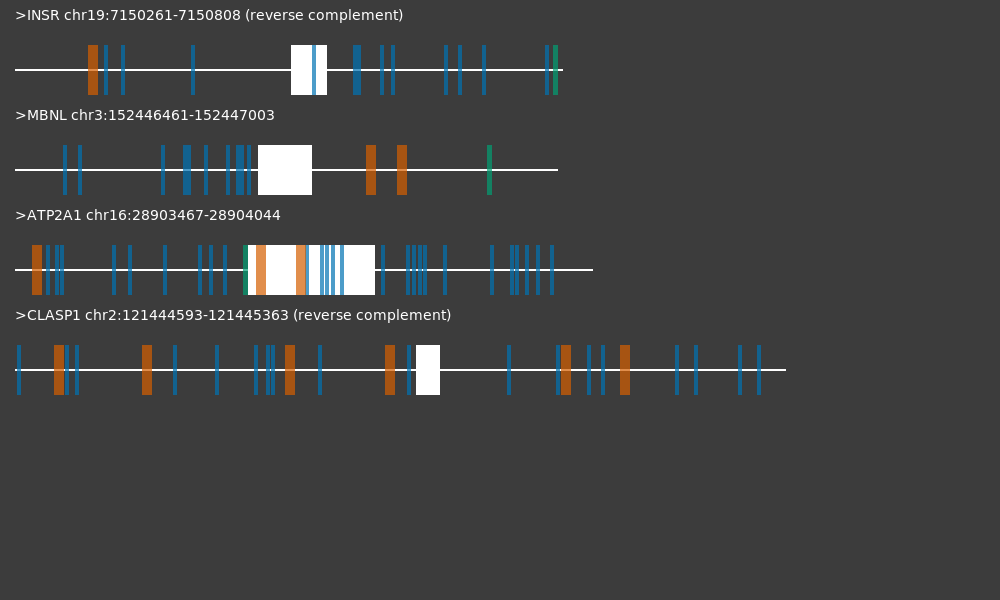
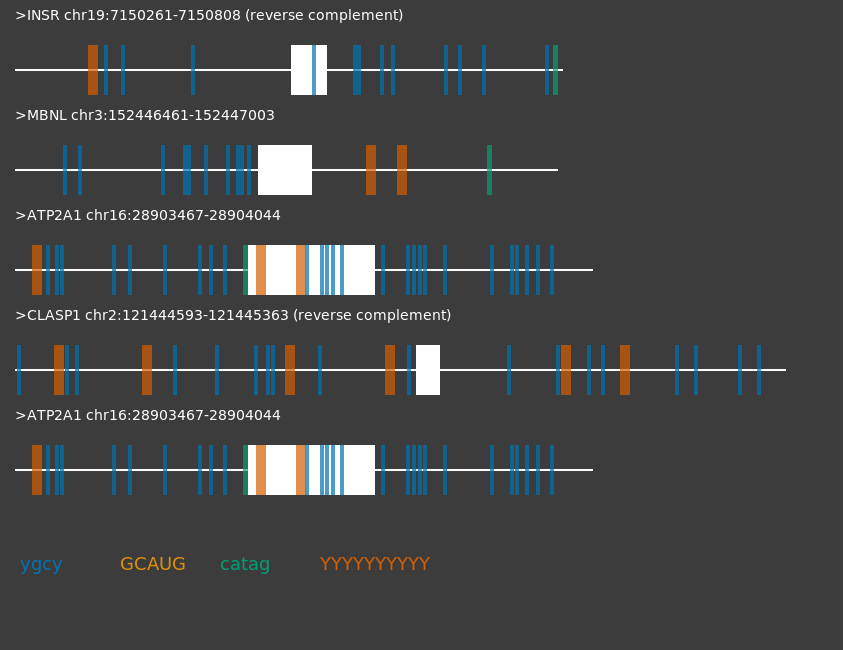
Finish up assignment

diff --git a/motif-mark-oop.py b/motif-mark-oop.py
@@ -11,9 +11,9 @@ import seaborn as sns
 # Get args
 parser = argparse.ArgumentParser()
 parser.add_argument("-f","--filename",help="Input fasta file",required=True)
-parser.add_argument("-m","--motif_fn",help="Input motifs file",required=True)
+parser.add_argument("-m","--motif_fn",help="Input motifs file, up to 7 motifs",required=True)
 parser.add_argument("-d", "--darkmode", help="ouputs dark mode figures", action="store_true")
-parser.add_argument("-s", "--size", nargs="?",type=int,const=1,default=1,help="scale factor to lengthen each nucleotide")
+parser.add_argument("-s", "--size", nargs="?",type=int,const=1,default=1,help="scale factor to lengthen each nucleotide, default is 1")
 args = parser.parse_args()
 
 
@@ -71,8 +71,19 @@ bases_dict = {"A":"A",
                "N":"[ACGT]"}
 
 
+def draw_legend(c_key,x_pos,y_pos):
+    x = x_pos+10
+    y = y_pos+50
+    for i in c_key:
 
-#########    Define Classes     ##########
+        context.select_font_face("Lato", cairo.FONT_SLANT_NORMAL,cairo.FONT_WEIGHT_NORMAL)
+        context.set_font_size(18)
+        context.set_source_rgb(c_key[i][0],c_key[i][1],c_key[i][2])
+        context.move_to(x,y)
+        context.show_text(i)
+        x+=100
+
+#########    Define Class    ##########
 
 class motif_mark:
     def __init__(self, origin, seq, motif_list,header):
@@ -155,6 +166,7 @@ class motif_mark:
                 context.stroke()   
 
 
+
 #########    Parse inputs     #########
 
 # Parse input file
@@ -219,10 +231,7 @@ for i in range(len(headers)):
 
 # width = max width of each figure 
 # height = number of motif_marks * width of each + padding
-if args.size != 1:
-    WIDTH, HEIGHT = 1000+300*args.size, len(seqs)*100+200
-else:
-    WIDTH, HEIGHT = 1000, len(seqs)*100+200
+WIDTH, HEIGHT = len(max(seqs))*args.size+300*args.size, len(seqs)*100+150
 # create the coordinates to display the graphic
 surface = cairo.ImageSurface (cairo.FORMAT_ARGB32, WIDTH, HEIGHT)
 
@@ -245,7 +254,7 @@ for i in ob_dict:
     ob_dict[i].draw_seq()
     ob_dict[i].draw_motifs()
 
-
+draw_legend(col_key,left_margin,start_y)
 
 
 #write out drawing
